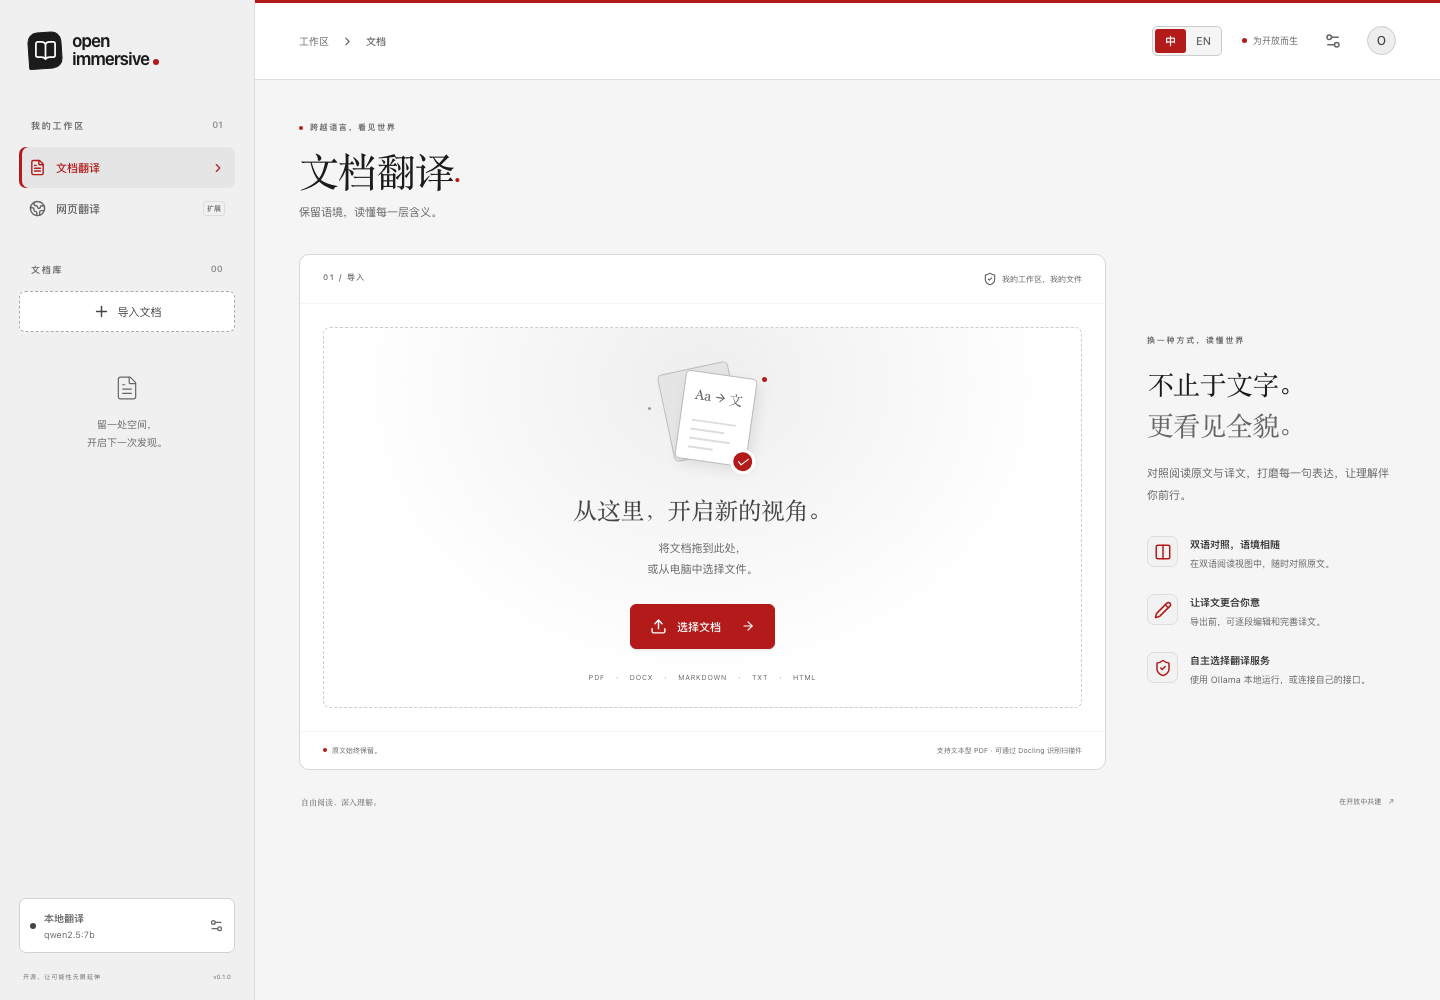
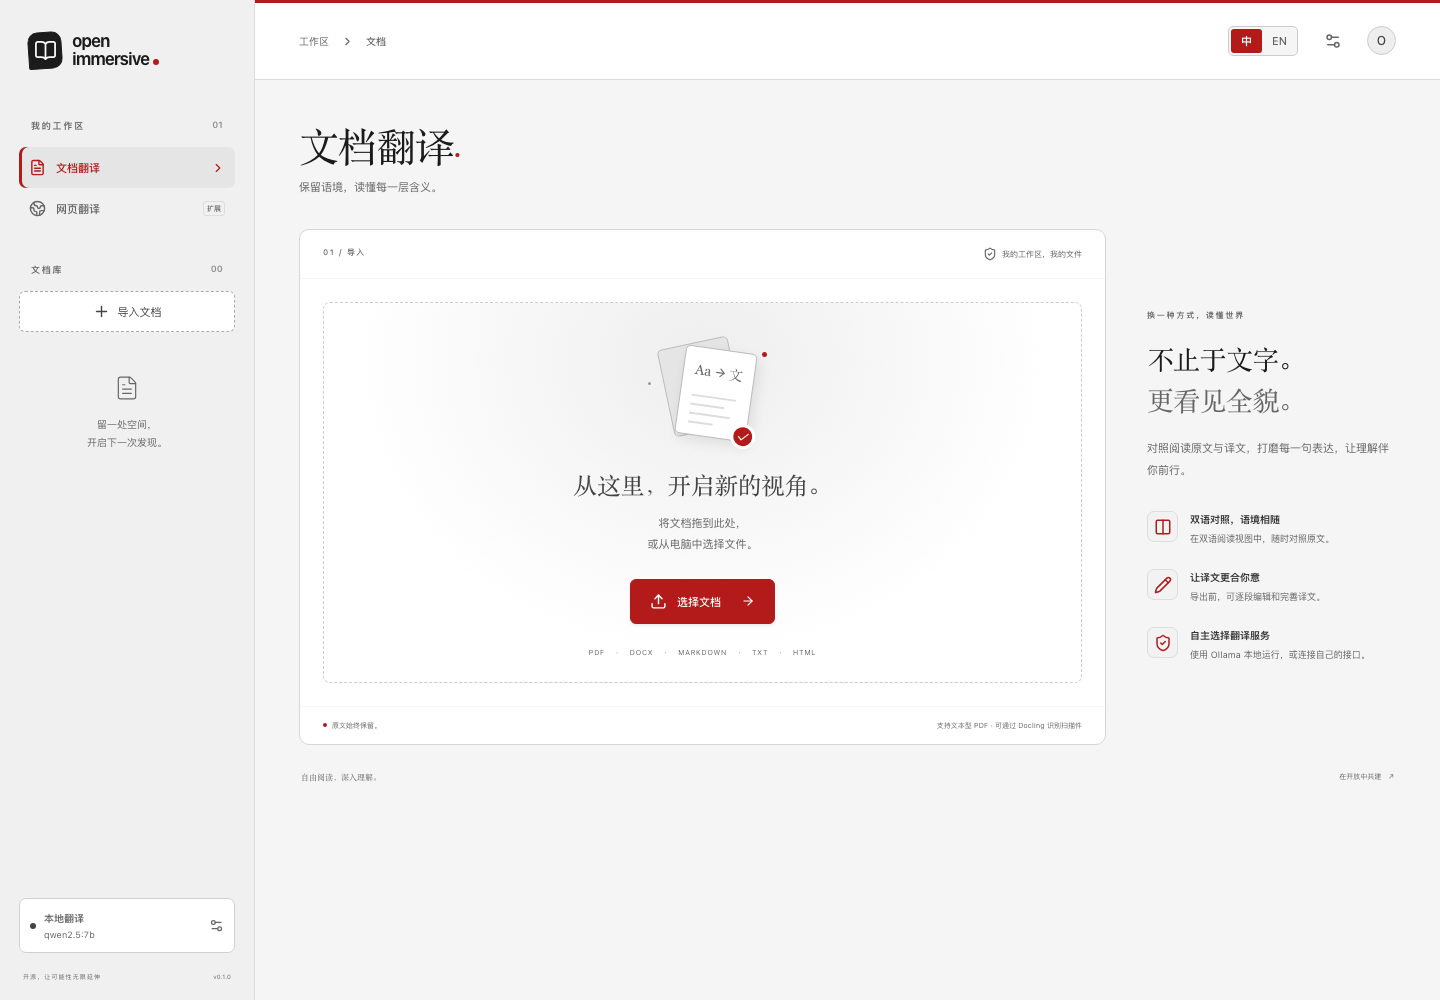
Remove the two header taglines

diff --git a/apps/reader/src/styles.css b/apps/reader/src/styles.css
@@ -76,8 +76,6 @@ html:lang(zh-CN) .page-heading h1,
 html:lang(zh-CN) .dropzone h2,
 html:lang(zh-CN) .intro-notes > h2,
 html:lang(zh-CN) .settings-modal h2 { font-family: 'Songti SC', 'STSong', Georgia, serif; }
-.open-badge { font-size: 9px; color: #666666; display: flex; align-items: center; gap: 6px; }
-.open-badge > span { width: 5px; height: 5px; border-radius: 50%; background: var(--accent); }
 .icon-button { width: 29px; height: 29px; padding: 0; display: inline-flex; align-items: center; justify-content: center; border: 0; background: transparent; color: #666666; border-radius: 5px; }
 .icon-button:hover { background: #eeeeee; color: var(--accent); }
 .avatar { background: #eeeeee; width: 29px; height: 29px; border: 1px solid #cccccc; border-radius: 50%; display: flex; align-items: center; justify-content: center; font-size: 12px; color: #444444; font-weight: 500; }
@@ -86,7 +84,7 @@ html:lang(zh-CN) .settings-modal h2 { font-family: 'Songti SC', 'STSong', Georgi
 .eyebrow { display: flex; align-items: center; gap: 7px; color: #666666; letter-spacing: 1.6px; font-size: 8px; font-weight: 600; }
 .eyebrow > span { display: inline-block; width: 4px; height: 4px; border-radius: 50%; background: var(--accent); }
 h1 { font-family: 'Lora', Georgia, serif; font-weight: 500; color: var(--ink); letter-spacing: -1.5px; }
-.page-heading h1 { font-size: clamp(27px, 2.8vw, 40px); margin: 14px 0 11px; line-height: 1.15; }
+.page-heading h1 { font-size: clamp(27px, 2.8vw, 40px); margin: 0 0 11px; line-height: 1.15; }
 .page-heading h1 > span { color: var(--accent); }
 .page-heading > div > p { font-size: 11px; color: #666666; margin: 0; }
 .button { border: 1px solid transparent; border-radius: 6px; padding: 12px 17px; display: inline-flex; align-items: center; justify-content: center; gap: 9px; font-size: 11px; font-weight: 500; line-height: 1.2; transition: background .15s, border-color .15s; text-decoration: none; white-space: nowrap; }
@@ -319,12 +317,10 @@ h1 { font-family: 'Lora', Georgia, serif; font-weight: 500; color: var(--ink); l
   .mobile-menu { display: inline-flex; margin-right: 0; }
   .breadcrumbs { gap: 8px; }
   .topbar-right { gap: 10px; }
-  .topbar-right .open-badge { display: none; }
   .topbar-right > .icon-button { display: none; }
-  .open-badge { font-size: 8px; }
   .workspace-content { padding: 29px 19px 0; }
   .page-heading { margin-bottom: 25px; gap: 10px; }
-  .page-heading h1 { font-size: 29px; margin-top: 12px; }
+  .page-heading h1 { font-size: 29px; margin-top: 0; }
   .eyebrow { font-size: 6px; letter-spacing: 1.2px; }
   .page-heading > div > p { font-size: 10px; }
   .new-document { font-size: 0; padding: 9px; gap: 0; }
@@ -375,7 +371,6 @@ h1 { font-family: 'Lora', Georgia, serif; font-weight: 500; color: var(--ink); l
   .settings-modal { max-height: calc(100vh - 30px); }
 }
 @media (max-width: 400px) {
-  .topbar-right .open-badge { display: none; }
   .intro-notes { grid-template-columns: 1fr; gap: 18px; }
   .feature-note { display: flex; gap: 12px; }
   .feature-note > span { margin: 0; }

diff --git a/apps/reader/src/App.tsx b/apps/reader/src/App.tsx
@@ -272,12 +272,12 @@ function ReaderApp() {
       <main className="main-workspace">
         <header className="topbar">
           <div className="breadcrumbs"><button className="icon-button mobile-menu" aria-label={t('openLibrary')} onClick={() => setMobileSidebar(true)}><Menu size={20} /></button><span>{t('workspace')}</span><ChevronRight size={13} /><strong>{t('documents')}</strong></div>
-          <div className="topbar-right"><div className="language-switch" role="group" aria-label={t('interfaceLanguage')}><button type="button" data-testid="ui-language-zh" aria-pressed={locale === 'zh'} lang="zh-CN" onClick={() => setLocale('zh')}>中</button><button type="button" data-testid="ui-language-en" aria-pressed={locale === 'en'} lang="en" onClick={() => setLocale('en')}>EN</button></div><span className="open-badge"><span />{t('madeOpen')}</span><button className="icon-button" aria-label={t('translationSettings')} onClick={() => setPanel('settings')}><Settings2 size={18} /></button><span className="avatar" aria-label={t('localWorkspace')}>O</span></div>
+          <div className="topbar-right"><div className="language-switch" role="group" aria-label={t('interfaceLanguage')}><button type="button" data-testid="ui-language-zh" aria-pressed={locale === 'zh'} lang="zh-CN" onClick={() => setLocale('zh')}>中</button><button type="button" data-testid="ui-language-en" aria-pressed={locale === 'en'} lang="en" onClick={() => setLocale('en')}>EN</button></div><button className="icon-button" aria-label={t('translationSettings')} onClick={() => setPanel('settings')}><Settings2 size={18} /></button><span className="avatar" aria-label={t('localWorkspace')}>O</span></div>
         </header>
 
         <div className="workspace-content">
           <div className="page-heading">
-            <div><div className="eyebrow"><span />{t('barrierFree')}</div><h1>{t('documentTranslation')}<span>.</span></h1><p>{t('documentSubtitle')}</p></div>
+            <div><h1>{t('documentTranslation')}<span>.</span></h1><p>{t('documentSubtitle')}</p></div>
             {document && <button className="button secondary new-document" onClick={() => fileInput.current?.click()} disabled={!!busy}><Plus size={16} />{t('newDocument')}</button>}
           </div>
 

diff --git a/apps/reader/src/i18n.tsx b/apps/reader/src/i18n.tsx
@@ -31,10 +31,8 @@ const en = {
   openPossibilities: 'OPEN SOURCE, OPEN POSSIBILITIES',
   workspace: 'Workspace',
   documents: 'Documents',
-  madeOpen: 'Made to be open',
   translationSettings: 'Translation settings',
   localWorkspace: 'Local workspace',
-  barrierFree: 'A WORLD WITHOUT LANGUAGE BARRIERS',
   documentSubtitle: 'Keep the context. Find your understanding.',
   newDocument: 'New document',
   serverOfflineTitle: 'The translation server is offline.',
@@ -168,10 +166,8 @@ const zh: Record<TranslationKey, Phrase> = {
   openPossibilities: '开源，让可能性无限延伸',
   workspace: '工作区',
   documents: '文档',
-  madeOpen: '为开放而生',
   translationSettings: '翻译设置',
   localWorkspace: '本地工作区',
-  barrierFree: '跨越语言，看见世界',
   documentSubtitle: '保留语境，读懂每一层含义。',
   newDocument: '新建文档',
   serverOfflineTitle: '翻译服务尚未连接。',
